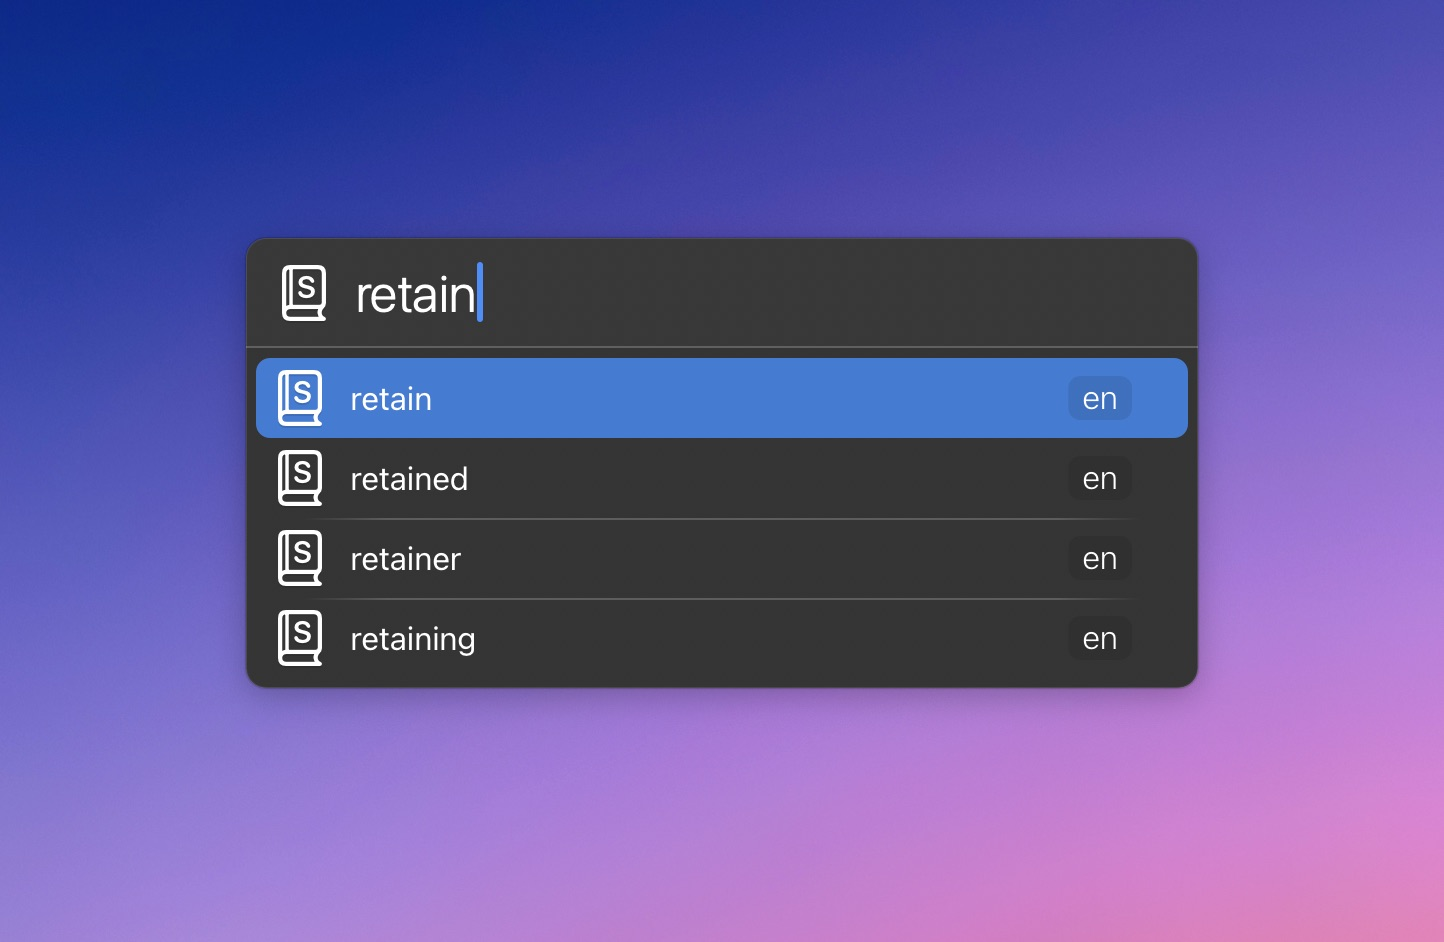
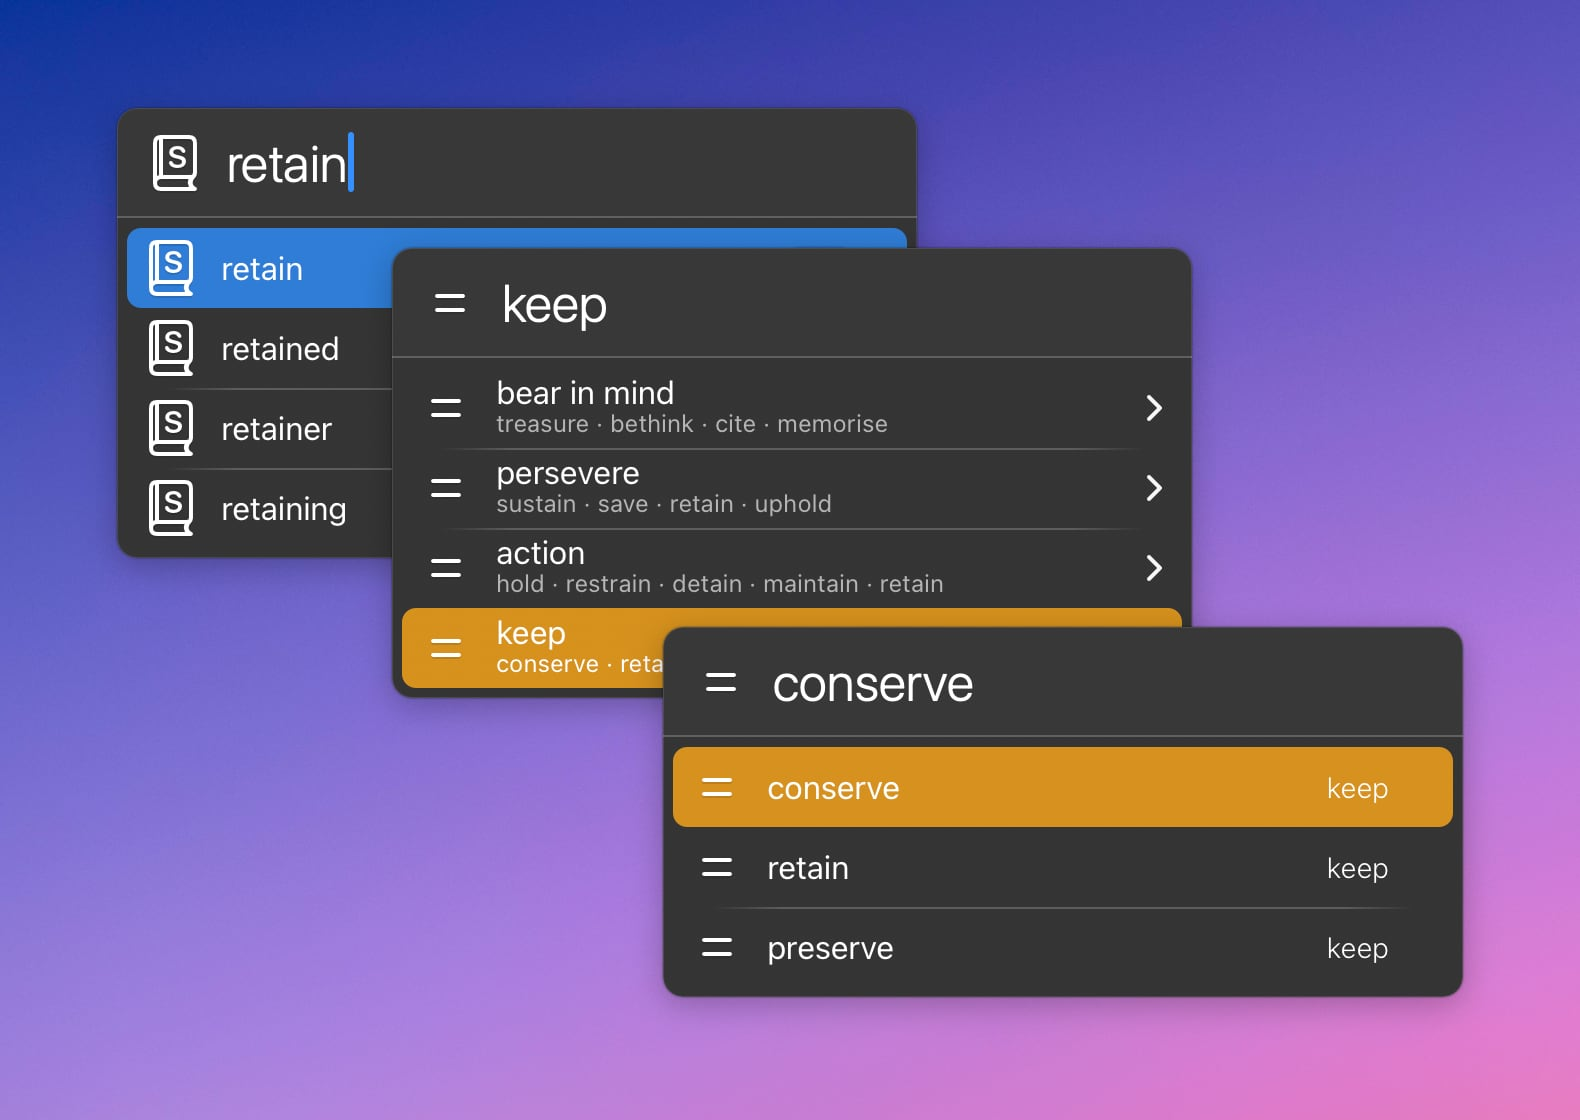
Synonyms Woxikon 1.0.2
- Directly show a detailed view if there is just one group of meanings.
- README update.

diff --git a/Synonyms-Woxikon/Synonyme.lbaction/Contents/Scripts/default.js b/Synonyms-Woxikon/Synonyme.lbaction/Contents/Scripts/default.js
@@ -51,17 +51,13 @@ function getSynonyms({ argument, url }) {
     resultType: 'text',
   }).data;
 
-  // File.writeText(html, Action.supportPath + '/test2.html');
-  // return;
-  // const html = File.readText(`${Action.supportPath}/test2.html`);
-
   const groups = html
     .replace(/(\n|\s+)/gm, ' ')
     .match(/<li class="synonyms-list-item.*?<\/li>/g);
 
-  // File.writeText(groups.join('\n'), Action.supportPath + '/test.html');
+  // File.writeText(groups.join('\n'), `${Action.supportPath}/test.html`);
 
-  const result = groups.map((group) => {
+  const processGroup = (group) => {
     const meaning = group.match(/<b>(.*?)<\/b>/)?.[1] || '';
     const synMatch =
       group.match(/<div class="upper-synonyms">(.*?)<\/div>/)?.[1] || '';
@@ -72,31 +68,42 @@ function getSynonyms({ argument, url }) {
         ?.map((match) => match.replace(/<[^>]+>/g, '').trim())
         .filter(Boolean) || [];
 
-    return {
-      title: meaning,
-      subtitle: synonyms.join(' - '),
-      // label: argument,
-      alwaysShowsSubtitle: true,
-      icon: 'equalTemplate',
-      action: 'showSynonyms',
-      actionArgument: { synonyms, meaning, url },
-      actionReturnsItems: true,
-    };
-  });
-  return result;
+    return { meaning, synonyms };
+  };
+
+  const { meaning, synonyms } = processGroup(groups[0]);
+
+  return groups.length === 1
+    ? synonyms.map((synonym) => createSynonymItem(synonym, meaning, url))
+    : groups.map((group) => {
+        const { meaning, synonyms } = processGroup(group);
+        return {
+          title: meaning,
+          subtitle: synonyms.join(' · '),
+          alwaysShowsSubtitle: true,
+          icon: 'equalTemplate',
+          action: 'showSynonyms',
+          actionArgument: { synonyms, meaning, url },
+          actionReturnsItems: true,
+        };
+      });
 }
 
 function showSynonyms({ synonyms, meaning, url }) {
   if (LaunchBar.options.commandKey) return LaunchBar.openURL(url);
   if (LaunchBar.options.shiftKey) return LaunchBar.paste(meaning);
 
-  return synonyms.map((synonym) => ({
+  return synonyms.map((synonym) => createSynonymItem(synonym, meaning, url));
+}
+
+function createSynonymItem(synonym, meaning, url) {
+  return {
     title: synonym,
     label: meaning,
     icon: 'equalTemplate',
     action: 'doSomething',
     actionArgument: { url, synonym },
-  }));
+  };
 }
 
 function doSomething({ url, synonym }) {

diff --git a/Synonyms-Woxikon/README.md b/Synonyms-Woxikon/README.md
@@ -4,11 +4,7 @@ This action displays synonyms from https://synonyme.woxikon.de/ in LaunchBar. Th
 
 You can paste results by holding `shift` as usual or open the website with `command`.
 
-<img src="01.jpg" width="722"/>
-
-<img src="02.jpg" width="722"/>
-
-<img src="03.jpg" width="722"/>
+<img src="01.jpg" width="790"/>
 
 **Note:** There is no official API for Woxikon, so this action could break at any time.
 
